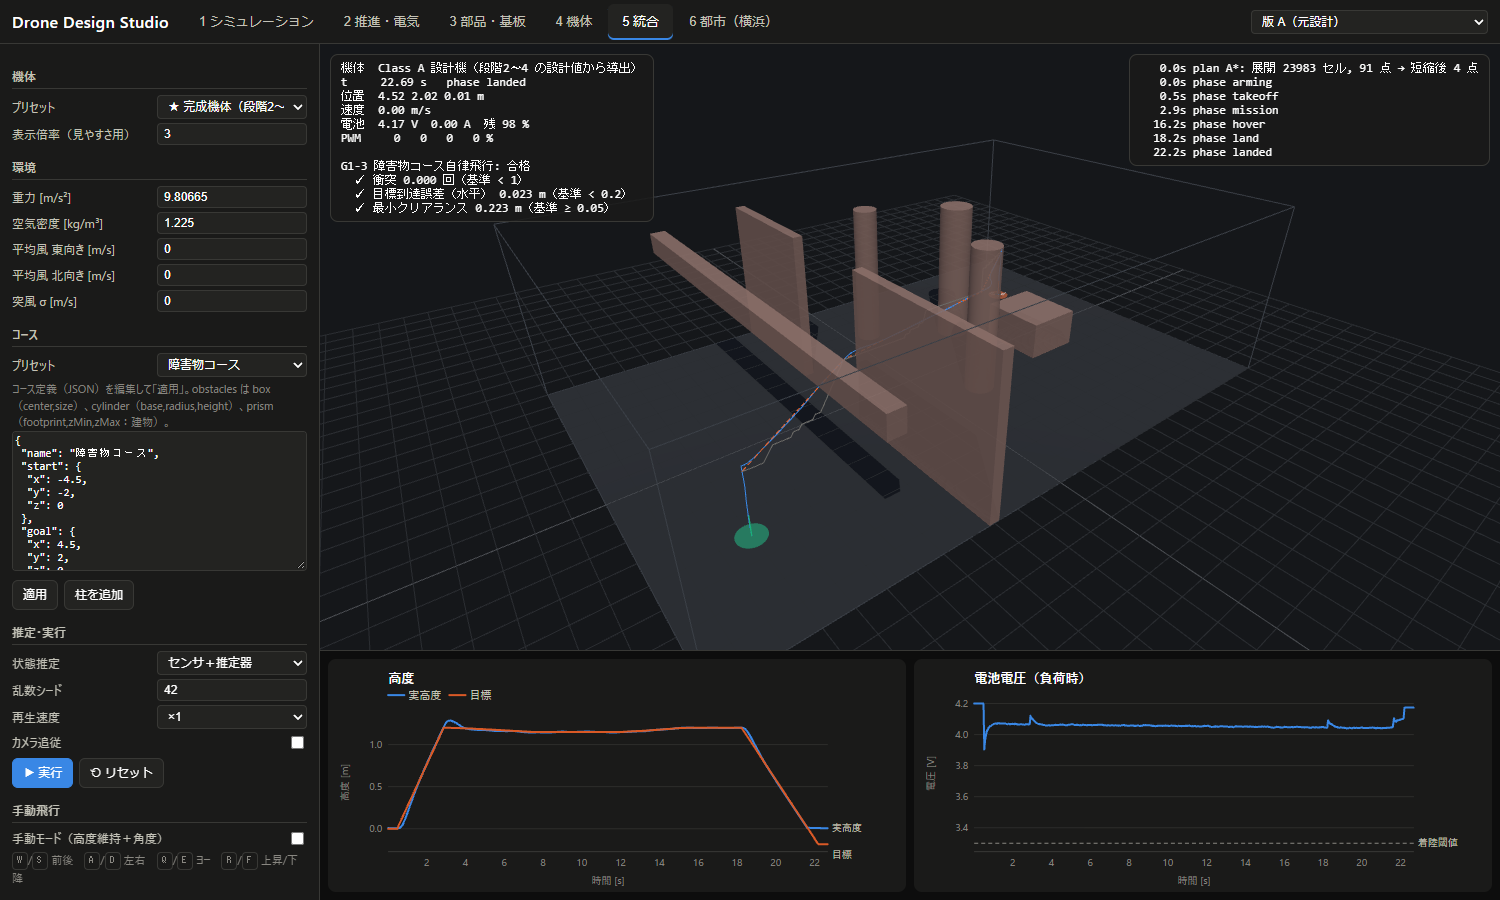
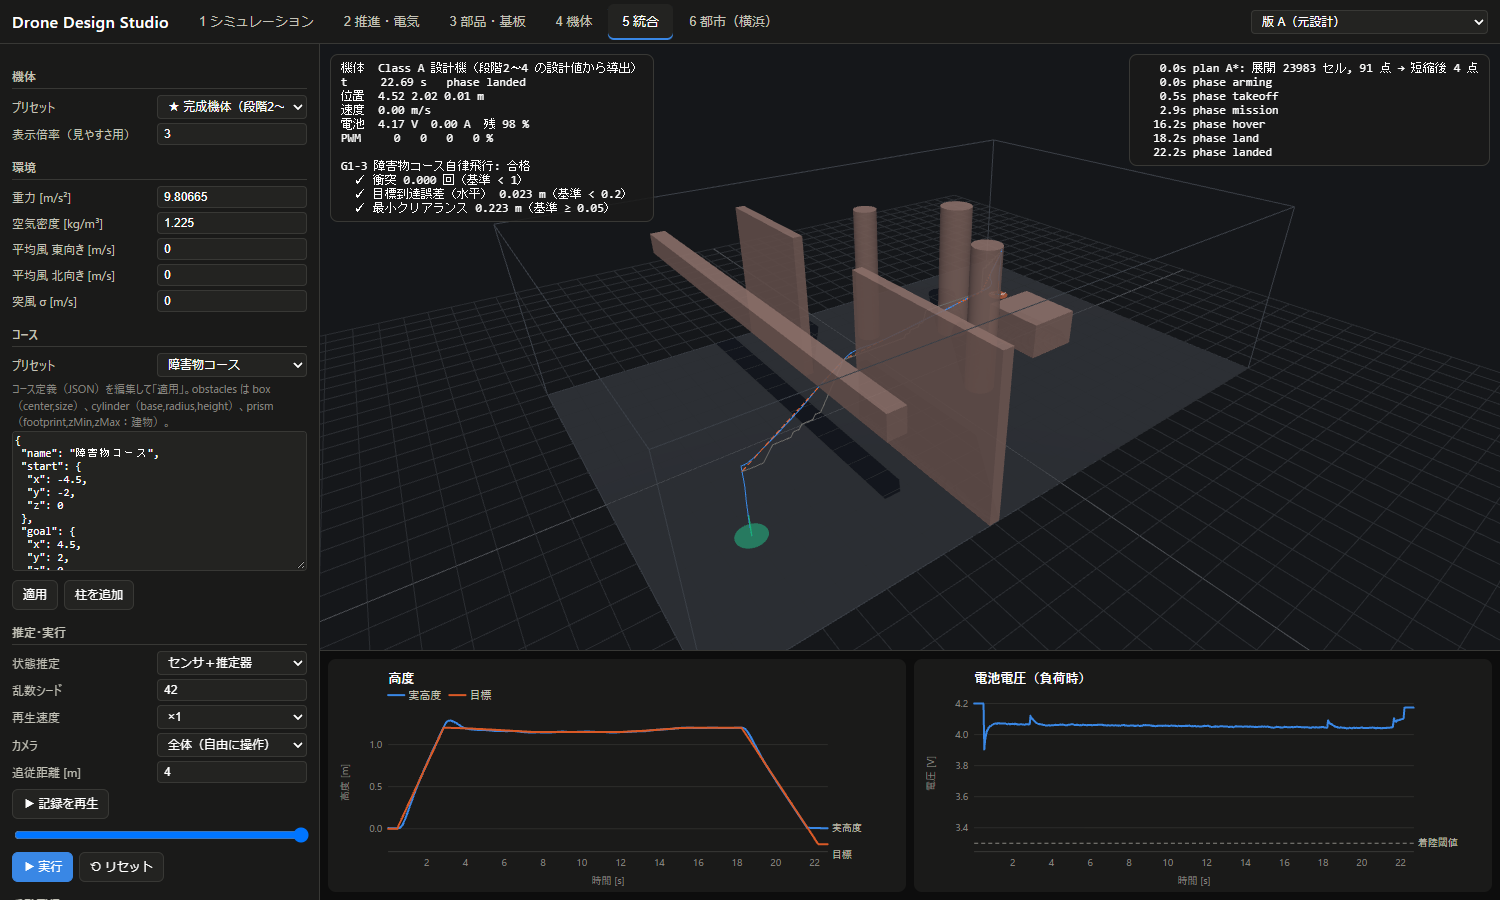
UI: follow cameras (orbit/chase/top) and replay of recorded flights; manual updated

Changed region(s): [[0.0, 0.8089, 0.2147, 1.0]]

diff --git a/src/ui/sim-view.ts b/src/ui/sim-view.ts
@@ -48,6 +48,11 @@ export const parseCourse = (text: string, fallback: CourseSpec): CourseSpec => {
   } as CourseSpec;
 };
 
+type CameraMode = 'free' | 'orbit' | 'chase' | 'top';
+
+/** Follow-camera tuning: distance [m], chase height ratio, smoothing rate [1/s]. */
+const CAMERA_FOLLOW = { defaultDistance: 4, chaseHeight: 0.35, topHeight: 2.5, smoothing: 4, minSpeedForHeading: 0.5 } as const;
+
 /** Select value of the course passed in by the caller (city view). */
 const INITIAL_COURSE_KEY = '__initial';
 
@@ -64,7 +69,11 @@ export const mountSimView = (root: HTMLElement, o: SimViewOptions): (() => void)
     seed: 42,
     speed: 1,
     visualScale: Number(q.get('scale') ?? 3),
-    follow: false,
+    /** Camera mode: free overview, follow (orbit with mouse), chase (behind), top-down follow. */
+    cam: (q.get('cam') ?? 'free') as CameraMode,
+    followDist: Number(q.get('camDist') ?? CAMERA_FOLLOW.defaultDistance),
+    /** Replay time of a recorded scenario (null = not replaying). */
+    replayT: null as number | null,
     manual: false,
     running: false,
   };
@@ -113,6 +122,8 @@ export const mountSimView = (root: HTMLElement, o: SimViewOptions): (() => void)
   const reset = (): void => {
     error = '';
     state.running = false;
+    state.replayT = null;
+    stopReplay();
     trail.clear();
     sampleIdx = 0;
     if (pathLine) vp.scene.remove(pathLine);
@@ -230,8 +241,77 @@ export const mountSimView = (root: HTMLElement, o: SimViewOptions): (() => void)
   const runBtn = button('▶ 実行', () => {
     if (!sim) return;
     state.running = !state.running;
+    if (state.running) stopReplay();
     runBtn.textContent = state.running ? '⏸ 一時停止' : '▶ 実行';
   }, 'btn primary');
+  // ---------- follow camera ----------
+  const lastP = new THREE.Vector3();
+  const chaseDir = new THREE.Vector3(1, 0, 0);
+  const setCamMode = (mode: CameraMode): void => {
+    state.cam = mode;
+    vp.controls.enabled = mode === 'free' || mode === 'orbit';
+    if (mode === 'free' || !mesh) return;
+    const p = mesh.group.position;
+    const d = state.followDist;
+    // close-range clip planes: the vehicle is a few tenths of a metre across
+    vp.camera.near = 0.01;
+    vp.camera.far = Math.max(2000, 5 * Math.max(state.env.boundsMax.x - state.env.boundsMin.x, state.env.boundsMax.y - state.env.boundsMin.y));
+    vp.camera.updateProjectionMatrix();
+    spMarker.visible = true;
+    lastP.copy(p);
+    if (mode === 'orbit') vp.lookAt(p.clone(), new THREE.Vector3(p.x - 0.6 * d, p.y - 0.8 * d, p.z + 0.5 * d));
+  };
+  const updateFollowCamera = (dt: number): void => {
+    if (state.cam === 'free' || !mesh) return;
+    const p = mesh.group.position;
+    const d = state.followDist;
+    const moved = new THREE.Vector3().subVectors(p, lastP);
+    if (state.cam === 'orbit') {
+      // keep the user's orbit offset, translate with the vehicle
+      vp.camera.position.add(moved);
+      vp.controls.target.copy(p);
+    } else {
+      const speed = dt > 0 ? Math.hypot(moved.x, moved.y) / dt : 0;
+      if (speed > CAMERA_FOLLOW.minSpeedForHeading) chaseDir.lerp(new THREE.Vector3(moved.x, moved.y, 0).normalize(), Math.min(1, dt * CAMERA_FOLLOW.smoothing)).normalize();
+      
+      const want = state.cam === 'chase'
+        ? new THREE.Vector3(p.x - chaseDir.x * d, p.y - chaseDir.y * d, p.z + CAMERA_FOLLOW.chaseHeight * d)
+        : new THREE.Vector3(p.x, p.y - 0.01, p.z + CAMERA_FOLLOW.topHeight * d);
+      vp.camera.position.lerp(want, Math.min(1, dt * CAMERA_FOLLOW.smoothing));
+      vp.controls.target.copy(p);
+      vp.camera.lookAt(p);
+    }
+    lastP.copy(p);
+  };
+
+  // ---------- replay of a recorded (scenario) flight ----------
+  let replaying = false;
+  const stopReplay = (): void => {
+    replaying = false;
+    replayBtn.textContent = '▶ 記録を再生';
+  };
+  const replayBtn = button('▶ 記録を再生', () => {
+    if (!sim || sim.samples.length === 0) return;
+    if (replaying) {
+      stopReplay();
+      return;
+    }
+    state.running = false;
+    runBtn.textContent = '▶ 実行';
+    const T = sim.samples[sim.samples.length - 1].t;
+    if (state.replayT === null || state.replayT >= T) state.replayT = 0;
+    replaying = true;
+    replayBtn.textContent = '⏸ 再生を停止';
+  });
+  const replaySlider = el('input', { type: 'range', min: '0', max: '1000', value: '1000', title: '再生位置（記録済みの飛行）' });
+  replaySlider.style.width = '100%';
+  replaySlider.addEventListener('input', () => {
+    if (!sim || sim.samples.length === 0) return;
+    stopReplay();
+    state.replayT = (Number(replaySlider.value) / 1000) * sim.samples[sim.samples.length - 1].t;
+    poseAt(state.replayT);
+  });
+
   side.append(
     heading('機体'),
     selectField('プリセット', droneOptions, state.droneKey, (v) => { state.droneKey = v; reset(); }),
@@ -275,7 +355,15 @@ export const mountSimView = (root: HTMLElement, o: SimViewOptions): (() => void)
     selectField('状態推定', [{ value: 'filter', label: 'センサ＋推定器' }, { value: 'truth', label: '真値（理想）' }], state.estimator, (v) => { state.estimator = v === 'truth' ? 'truth' : 'filter'; reset(); }),
     numberField('乱数シード', state.seed, 1, (v) => { state.seed = Math.round(v); reset(); }),
     selectField('再生速度', ['0.25', '0.5', '1', '2', '5'].map((x) => ({ value: x, label: `×${x}` })), '1', (v) => { state.speed = parseFloat(v); }),
-    checkField('カメラ追従', state.follow, (v) => { state.follow = v; }),
+    selectField('カメラ', [
+      { value: 'free', label: '全体（自由に操作）' },
+      { value: 'orbit', label: '機体を追従（マウスで回転・ズーム可）' },
+      { value: 'chase', label: '機体の後方から追従' },
+      { value: 'top', label: '機体の真上から追従' },
+    ], state.cam, (v) => setCamMode(v as CameraMode)),
+    numberField('追従距離 [m]', state.followDist, 0.5, (v) => { state.followDist = Math.max(0.3, v); setCamMode(state.cam); }),
+    el('div', { class: 'btn-row' }, [replayBtn]),
+    replaySlider,
     el('div', { class: 'btn-row' }, [runBtn, button('⟲ リセット', () => { reset(); runBtn.textContent = '▶ 実行'; })]),
     heading('手動飛行'),
     checkField('手動モード（高度維持＋角度）', state.manual, (v) => {
@@ -320,6 +408,13 @@ export const mountSimView = (root: HTMLElement, o: SimViewOptions): (() => void)
   // ---------- loop ----------
   let chartTimer = 0;
   vp.onFrame((dt) => {
+    if (sim && replaying && state.replayT !== null && sim.samples.length) {
+      const T = sim.samples[sim.samples.length - 1].t;
+      state.replayT = Math.min(T, state.replayT + dt * state.speed);
+      poseAt(state.replayT);
+      replaySlider.value = String(Math.round((state.replayT / T) * 1000));
+      if (state.replayT >= T) stopReplay();
+    }
     if (sim && state.running && !sim.finished()) {
       if (state.manual) sim.setManual(manualInput());
       sim.advance(dt * state.speed);
@@ -333,10 +428,7 @@ export const mountSimView = (root: HTMLElement, o: SimViewOptions): (() => void)
       updateOverlay();
     }
     if (sim && mesh) mesh.update(sim.state().rotorSpeed, dt * state.speed);
-    if (state.follow && mesh) {
-      const target = mesh.group.position;
-      vp.controls.target.lerp(target, 0.1);
-    }
+    updateFollowCamera(dt);
   });
 
   // ---------- camera presets ----------
@@ -369,6 +461,7 @@ export const mountSimView = (root: HTMLElement, o: SimViewOptions): (() => void)
 
   reset();
   setCamera(q.get('view') ?? 'iso');
+  if (state.cam !== 'free') setCamMode(state.cam);
   /** Pose the vehicle at a logged time (for screenshots of the flight). */
   const poseAt = (t: number): void => {
     if (!sim || !mesh) return;
@@ -397,6 +490,7 @@ export const mountSimView = (root: HTMLElement, o: SimViewOptions): (() => void)
     const at = q.get('at');
     if (at) poseAt(parseFloat(at));
     setCamera(q.get('view') ?? 'iso');
+    if (state.cam !== 'free') setCamMode(state.cam);
     markReady();
   } else if (q.get('autorun')) {
     (sim as Simulation | null)?.runToEnd(120);

diff --git a/scripts/manual-shots.ts b/scripts/manual-shots.ts
@@ -1,7 +1,7 @@
 /** Screenshots of the UI for the user manual (docs/manual.md → docs/img). */
 import { startShooter } from './shot';
 
-const SHOTS: Array<{ q: string; f: string; opts?: { width?: number; height?: number; timeoutMs?: number } }> = [
+const SHOTS: Array<{ q: string; f: string; opts?: { width?: number; height?: number; timeoutMs?: number; waitMs?: number } }> = [
   { q: 'tab=sim&course=obstacles&view=iso', f: 'ui-1-sim.png' },
   { q: 'tab=electrical', f: 'ui-2-electrical.png' },
   { q: 'tab=pcb&view=2d', f: 'ui-3-pcb.png' },
@@ -11,7 +11,8 @@ const SHOTS: Array<{ q: string; f: string; opts?: { width?: number; height?: num
   { q: 'tab=assembly&variant=C&scenario=GC-5b&view=top&scale=25', f: 'ui-variant-c-outdoor.png' },
   { q: 'tab=city', f: 'ui-6-city.png', opts: { timeoutMs: 300000 } },
   { q: 'tab=city&scenario=GY-4&view=iso&scale=40', f: 'ui-6-city-flight.png', opts: { timeoutMs: 300000 } },
-  { q: 'tab=city&scenario=GY-4&view=follow&at=150&scale=1', f: 'ui-6-city-follow.png', opts: { timeoutMs: 300000 } },
+  { q: 'tab=city&scenario=GY-4&at=150&cam=chase&scale=3', f: 'ui-6-city-chase.png', opts: { timeoutMs: 300000, waitMs: 2000 } },
+  { q: 'tab=city&scenario=GY-4&at=150&cam=top&camDist=6&scale=3', f: 'ui-6-city-top.png', opts: { timeoutMs: 300000, waitMs: 2000 } },
 ];
 
 const main = async (): Promise<void> => {

diff --git a/scripts/shot.ts b/scripts/shot.ts
@@ -14,7 +14,7 @@ const CHROME_CANDIDATES = [
 ].filter(Boolean);
 
 export interface Shooter {
-  shoot: (query: string, file: string, opts?: { width?: number; height?: number; selector?: string; timeoutMs?: number }) => Promise<void>;
+  shoot: (query: string, file: string, opts?: { width?: number; height?: number; selector?: string; timeoutMs?: number; waitMs?: number }) => Promise<void>;
   page: () => Page;
   close: () => Promise<void>;
 }
@@ -34,7 +34,7 @@ export const startShooter = async (): Promise<Shooter> => {
     await page.setViewportSize({ width: opts.width ?? 1500, height: opts.height ?? 900 });
     await page.goto(`http://localhost:${port}/?${query}`);
     await page.waitForSelector('body[data-ready="1"]', { timeout: opts.timeoutMs ?? 120000 });
-    await page.waitForTimeout(400);
+    await page.waitForTimeout(opts.waitMs ?? 400);
     if (opts.selector) await page.locator(opts.selector).first().screenshot({ path: file });
     else await page.screenshot({ path: file });
   };
